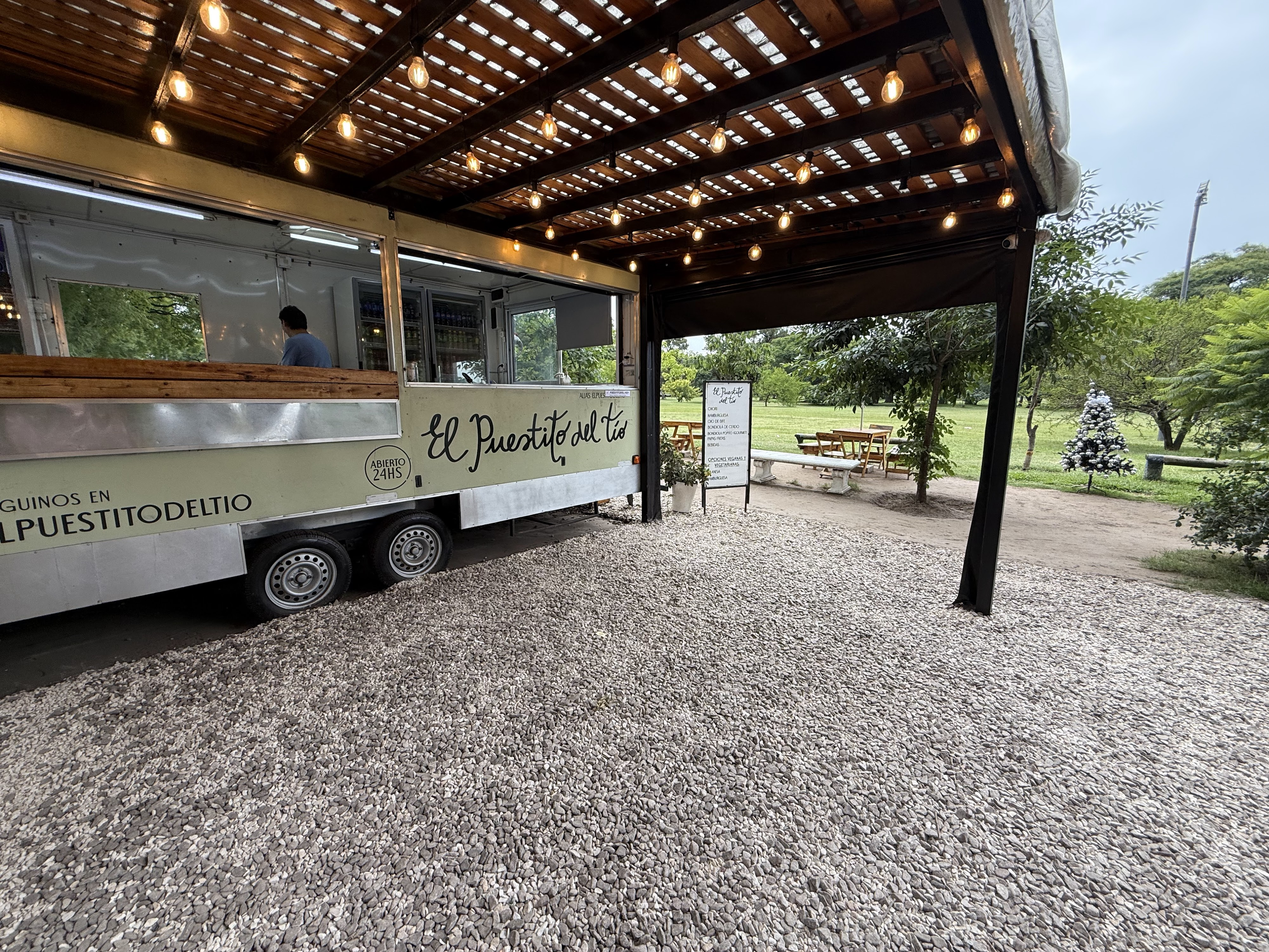
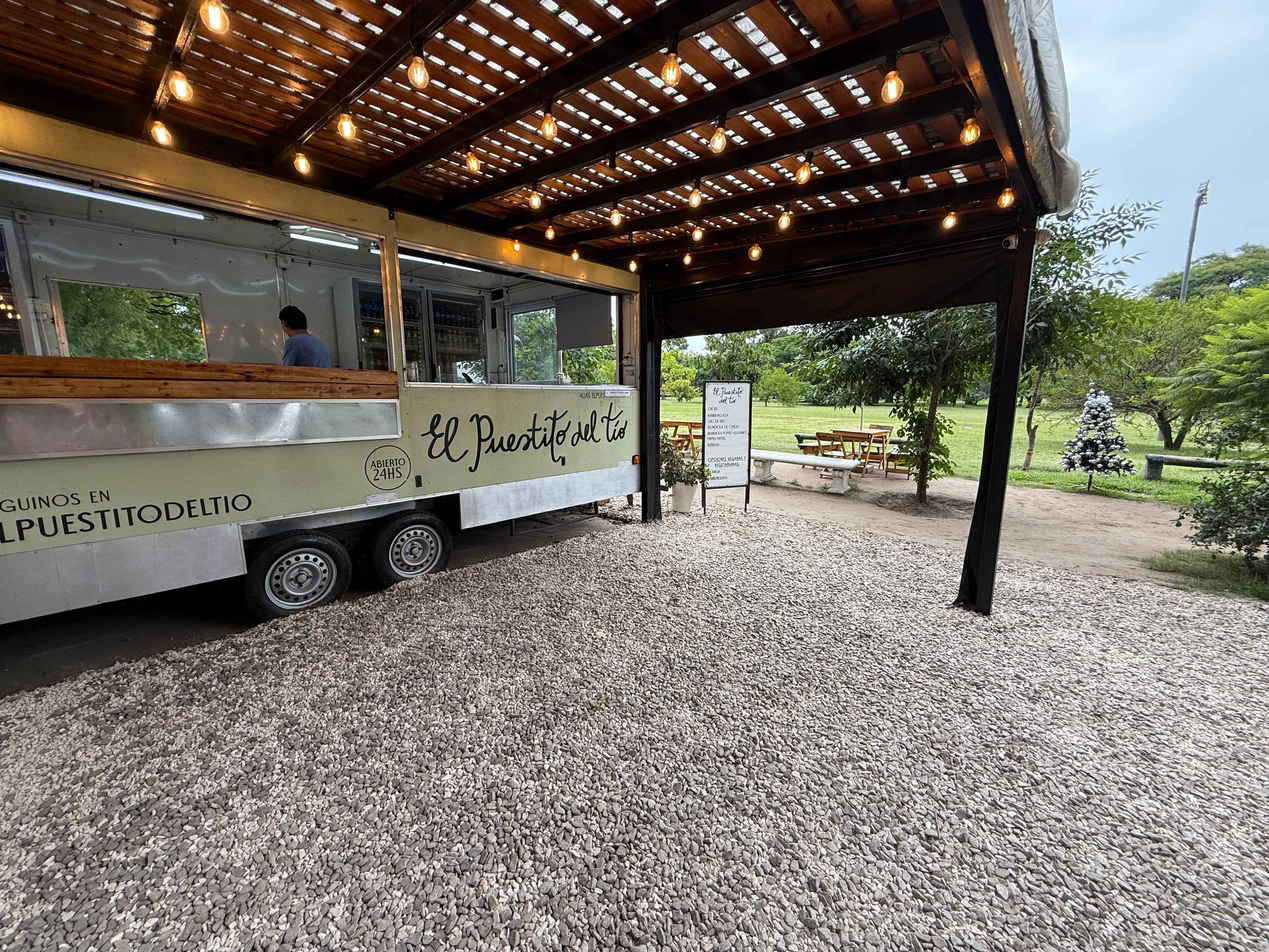
Major update

Changed region(s): [[0.9688, 0.31, 1.0, 0.341], [0.375, 0.248, 0.4062, 0.279]]

diff --git a/src/pages/Storefront.tsx b/src/pages/Storefront.tsx
@@ -20,7 +20,7 @@ import { translations } from '../i18n/translations';
 import { calculateDiscount } from '../types/promotion';
 import { parseMenuLayout } from '../utils/menuLayouts';
 import type { MenuLayoutId } from '../utils/menuLayouts';
-import { resolveAdminPath } from '../utils/adminPath';
+import { BrandLogoMark } from '../components/BrandLogoMark';
 
 export default function Storefront() {
   const { menuItems, menuCategories, siteSettings, promotions } = useMenu();
@@ -151,12 +151,12 @@ export default function Storefront() {
     return opt.label;
   };
 
-  const getLocalizedFeatures = (opt) => {
+  const getLocalizedFeatures = (opt): string[] => {
     if (lang === 'en' && opt.featuresEn) return opt.featuresEn;
     if (lang === 'pt' && opt.featuresPt) return opt.featuresPt;
     if (lang === 'ru' && opt.featuresRu) return opt.featuresRu;
     if (lang === 'de' && opt.featuresDe) return opt.featuresDe;
-    return opt.features;
+    return opt.features ?? [];
   };
 
   const addToCart = (item, option) => {
@@ -232,7 +232,7 @@ export default function Storefront() {
       .filter(item => item.available !== false)
       .map(item => ({
         ...item,
-        options: item.options.filter(opt => opt.available !== false)
+        options: (item.options ?? []).filter(opt => opt.available !== false)
       }))
       .filter(item => item.options.length > 0);
   }, [menuItems]);
@@ -406,6 +406,7 @@ export default function Storefront() {
         </main>
         <GlobalFooter
           brandName={siteSettings.brandName}
+          brandLogo={siteSettings.brandLogo}
           address={siteSettings.brandAddress}
           instagram={siteSettings.brandInstagram}
           googleMaps={siteSettings.brandGoogleMaps}
@@ -446,13 +447,12 @@ export default function Storefront() {
       )}
 
       {/* Header */}
-      <header className={`bg-black text-white p-4 sticky top-0 z-10 shadow-md flex justify-between items-center ${mpSuccess ? 'mt-[88px] sm:mt-[72px]' : ''}`}>
+      <header className={`sticky top-0 z-10 shadow-md flex justify-between items-center p-4 dark:bg-black dark:text-white light:bg-brand-white light:text-text-primary light:border-b light:border-border ${mpSuccess ? 'mt-[88px] sm:mt-[72px]' : ''}`}>
         <div className="flex items-center gap-3">
-          {siteSettings.brandLogo ? (
-            <img src={siteSettings.brandLogo} alt={siteSettings.brandName || 'Logo'} className="h-8 md:h-10 object-contain" />
-          ) : (
-            <h1 className="text-xl md:text-2xl font-black tracking-tight">{siteSettings.brandName || 'Tu Negocio'}</h1>
-          )}
+          <BrandLogoMark
+            src={siteSettings.brandLogo || '/puestito.png'}
+            alt={siteSettings.brandName || 'Logo'}
+          />
           <div className="flex items-center gap-2 mt-0.5">
             {businessHours.enabled ? (
               <span className={`inline-flex items-center gap-1 text-[10px] md:text-xs font-bold px-2 py-0.5 rounded-full ${isOpenNow ? 'bg-green-500/20 text-green-400' : 'bg-red-500/20 text-red-400'}`}>
@@ -461,7 +461,7 @@ export default function Storefront() {
               </span>
             ) : null}
             {siteSettings.brandAddress ? (
-              <span className="text-xs md:text-sm text-gray-300">{siteSettings.brandAddress}</span>
+              <span className="text-xs md:text-sm dark:text-gray-300 light:text-text-secondary">{siteSettings.brandAddress}</span>
             ) : null}
           </div>
         </div>
@@ -575,6 +575,7 @@ export default function Storefront() {
       {/* Footer */}
       <GlobalFooter
         brandName={siteSettings.brandName}
+        brandLogo={siteSettings.brandLogo}
         address={siteSettings.brandAddress}
         instagram={siteSettings.brandInstagram}
         googleMaps={siteSettings.brandGoogleMaps}

diff --git a/src/components/admin/AdminPanel.tsx b/src/components/admin/AdminPanel.tsx
@@ -159,7 +159,7 @@ export function AdminPanel() {
         >
           <aside className="hidden lg:flex flex-col w-64 bg-white/3 border-r border-white/5 p-4">
             <div className="flex items-center gap-3 px-2 py-3 mb-4">
-              <img src={siteSettings.brandLogo || '/titulo-blanco.png'} alt={siteSettings.brandName || 'Trufi'} className="w-32 h-auto object-contain" />
+              <img src={siteSettings.brandLogo || '/puestito.png'} alt={siteSettings.brandName || 'Trufi'} className="w-32 h-auto object-contain" />
             </div>
             <span className="mx-2 mb-4 inline-flex self-start px-2 py-1 rounded-lg bg-white/10 text-[10px] font-black uppercase tracking-wider text-gray-300">
               Plan {planLabel}
@@ -195,7 +195,7 @@ export function AdminPanel() {
                   onClick={(e) => e.stopPropagation()}
                 >
                   <div className="flex items-center justify-between px-2 py-3 mb-4">
-                    <img src={siteSettings.brandLogo || '/titulo-blanco.png'} alt={siteSettings.brandName || 'Trufi'} className="w-28 h-auto object-contain" />
+                    <img src={siteSettings.brandLogo || '/puestito.png'} alt={siteSettings.brandName || 'Trufi'} className="w-28 h-auto object-contain" />
                     <button onClick={() => setMobileMenuOpen(false)} aria-label="Cerrar menú" className="text-gray-400 hover:text-white p-1">
                       <X size={20} />
                     </button>

diff --git a/src/components/GlobalFooter.tsx b/src/components/GlobalFooter.tsx
@@ -39,6 +39,7 @@ import { translations } from '../i18n/translations';
 
 interface GlobalFooterProps {
   brandName?: string;
+  brandLogo?: string;
   address?: string;
   instagram?: string;
   googleMaps?: string;
@@ -51,7 +52,7 @@ interface GlobalFooterProps {
  *
  * @returns {JSX.Element} Elemento que representa el pie de página.
  */
-export function GlobalFooter({ brandName, address, instagram, googleMaps, hoursSummary }: GlobalFooterProps) {
+export function GlobalFooter({ brandName, brandLogo, address, instagram, googleMaps, hoursSummary }: GlobalFooterProps) {
   const { language } = useLanguage();
   const { tenantId } = usePlan();
   const { triggerLogin } = useAdmin();
@@ -132,9 +133,11 @@ export function GlobalFooter({ brandName, address, instagram, googleMaps, hoursS
             role="presentation"
           />
           <div className="flex flex-col items-center md:items-start w-full">
-            <h2 className="text-2xl md:text-3xl font-black text-white tracking-tight md:-mt-2">
-              {displayName}
-            </h2>
+            <img
+              src={brandLogo || '/puestito.png'}
+              alt={displayName}
+              className="w-[280px] md:w-[320px] h-auto object-contain md:-mt-4"
+            />
             <div className="w-full max-w-[200px] h-px bg-brand-white/10 md:hidden mt-4 mx-auto rounded-full" />
           </div>
         </div>

diff --git a/src/components/BrandLogoMark.tsx b/src/components/BrandLogoMark.tsx
@@ -1,0 +1,37 @@
+import { useTheme } from '../context/ThemeContext';
+
+interface BrandLogoMarkProps {
+  src: string;
+  alt: string;
+}
+
+/** Header logo: circle badge (dark) or truck-green curve (light). */
+export function BrandLogoMark({ src, alt }: BrandLogoMarkProps) {
+  const { isDark } = useTheme();
+
+  if (isDark) {
+    return (
+      <div className="h-10 w-10 md:h-11 md:w-11 shrink-0 rounded-full overflow-hidden bg-puestito-green ring-1 ring-white/15 shadow-sm">
+        <img src={src} alt={alt} className="h-full w-full object-cover object-center scale-110" />
+      </div>
+    );
+  }
+
+  return (
+    <div className="relative h-10 md:h-11 shrink-0 min-w-[4.5rem] md:min-w-[5rem]">
+      <svg
+        aria-hidden
+        viewBox="0 0 96 48"
+        className="absolute -left-2 -bottom-1.5 w-[5.5rem] md:w-24 h-auto pointer-events-none"
+        preserveAspectRatio="none"
+      >
+        <path d="M0,48 Q48,6 96,20 L96,48 Z" className="fill-puestito-green" />
+      </svg>
+      <img
+        src={src}
+        alt={alt}
+        className="relative h-full w-auto max-w-[5.5rem] md:max-w-[6rem] object-contain object-left pl-0.5"
+      />
+    </div>
+  );
+}

diff --git a/src/components/ThemeToggle.tsx b/src/components/ThemeToggle.tsx
@@ -8,7 +8,7 @@ export function ThemeToggle() {
     <button
       type="button"
       onClick={() => setTheme(isDark ? 'light' : 'dark')}
-      className="p-2 bg-gray-800 rounded-full hover:bg-gray-700 transition text-gray-300 hover:text-white"
+      className="p-2 rounded-full transition dark:bg-gray-800 dark:hover:bg-gray-700 dark:text-gray-300 dark:hover:text-white light:bg-surface-muted light:hover:bg-border light:text-text-secondary light:hover:text-text-primary"
       aria-label={isDark ? 'Modo claro' : 'Modo oscuro'}
       title={isDark ? 'Modo claro' : 'Modo oscuro'}
     >

diff --git a/src/components/MenuList.tsx b/src/components/MenuList.tsx
@@ -27,7 +27,7 @@ export function MenuList() {
   return (
     <div className="relative z-20 px-0 lg:px-4 flex flex-col items-center bg-brand-green w-full">
       <img
-        src={siteSettings.brandLogo || '/titulo-blanco.png'}
+        src={siteSettings.brandLogo || '/puestito.png'}
         alt={siteSettings.brandName || 'Título'}
         className="w-full md:w-[1200px] relative z-30 h-auto mx-auto mb-3 -mt-32 md:-mt-48 lg:-mt-64 px-4 object-contain"
       />

diff --git a/src/components/LanguageSelector.tsx b/src/components/LanguageSelector.tsx
@@ -39,8 +39,8 @@ export function LanguageSelector() {
         className="bg-brand-green w-full max-w-2xl rounded-xl md:rounded-2xl p-8 md:p-12 shadow-[0_30px_60px_rgba(0,0,0,0.8)] flex flex-col items-center"
       >
         <img 
-          src="/titulo-blanco.png" 
-          alt="Trufi" 
+          src="/puestito.png" 
+          alt="El Puestito del Tío" 
           className="w-72 md:w-96 lg:w-[450px] h-auto object-contain mb-4 md:mb-6"
         />
 

diff --git a/index.html b/index.html
@@ -12,8 +12,8 @@
     <meta property="og:description" content="Carta digital, pedidos y WhatsApp para tu local." />
 
     <link rel="manifest" href="/manifest.json" />
+    <link rel="icon" type="image/svg+xml" href="/favicon.svg" />
     <link rel="apple-touch-icon" href="/favicon.jpg" />
-    <link rel="icon" type="image/jpeg" href="/favicon.jpg" />
     <title>Trufi — Menú online</title>
   </head>
   <body>

diff --git a/src/components/admin/LoginModal.tsx b/src/components/admin/LoginModal.tsx
@@ -135,7 +135,7 @@ export function LoginModal() {
                 <X size={18} />
               </button>
               <img
-                src="/titulo-blanco.png"
+                src="/puestito.png"
                 alt="Trufi Admin"
                 className="w-48 h-auto object-contain"
               />

diff --git a/src/index.css b/src/index.css
@@ -4,6 +4,7 @@
 
 @theme {
   --color-brand-green: #cc333f;
+  --color-puestito-green: #86967e;
   --color-brand-black: #0d0d0d;
   --color-brand-white: #fdf6e3;
   --color-brand-gray: #6b7280;

diff --git a/docs/roadmap/premium-cx-desk.md b/docs/roadmap/premium-cx-desk.md
@@ -1,10 +1,98 @@
 # Premium CX desk
 
-Purpose: shopkeeper supervises AI customer chats — Premium tier beyond storefront bubble.
+Purpose: shopkeeper supervises AI customer chats - Premium tier beyond storefront bubble.
 
 Paths (today): `src/components/AIAssistant.tsx`, `api/ai-chat.ts`
 
 Deps (future): Firestore chat sessions, admin desk UI, knowledge store, OpenAI or equivalent
+
+## ROI read for CABA / Zona Norte pymes
+
+Best near-term offer: **Premium CX Lite**, not a full CX desk.
+
+Target buyer: rotiseria, empanadas, burger/chori, food truck, cafe chico, pet shop, dietetica, fiambreria or specialty retail where the owner answers WhatsApp personally and loses time on repeated questions.
+
+Best-fit geography: CABA and Zona Norte shops close enough for setup/support visits: Palermo, Belgrano, Nunez, Colegiales, Vicente Lopez, Olivos, Martinez, San Isidro.
+
+### What to sell now
+
+Position it as:
+
+> "Te armamos carta/pedidos online + respuestas rapidas para WhatsApp + asistente para preguntas comunes. Sin comision por pedido. Vos mantenes control."
+
+Package:
+
+- Existing storefront with cart, checkout, order status and WhatsApp handoff.
+- Existing admin order inbox with sound, 58mm ticket and quick replies.
+- Premium assistant for menu Q&A and suggestions on the storefront.
+- Admin-configured WhatsApp templates for recurring replies.
+- Manual "known answers" setup during onboarding: delivery zones, hours, payment methods, promos, allergens, top combos.
+- Weekly improvement pass during first month based on real customer questions.
+
+Do **not** lead with "AI customer service desk". For local pymes that sounds risky and expensive. Lead with fewer messy WhatsApp chats, fewer repeated questions, cleaner orders and no marketplace commission.
+
+### Why this is probably best ROI
+
+High value:
+
+- Owners already feel WhatsApp pain.
+- Orders and customer questions are concrete daily problems.
+- "No commission" is easy to compare against marketplaces and PedidoDirecto-like tools.
+- In-person setup in CABA/Zona Norte is a trust advantage.
+
+Low build cost:
+
+- Reuses current Pedidos features.
+- Reuses Premium storefront chat.
+- Reuses `wa.me` instead of WhatsApp Business API.
+- Requires mostly onboarding content, templates and small admin polish.
+
+Fast sales proof:
+
+- Can be piloted with 2 shops in 1-2 weeks.
+- Success metric is observable: order volume, owner admin usage, fewer malformed WhatsApp orders, repeat questions handled.
+
+### Recommended pricing test
+
+Use simple pricing until there are 5+ paying shops:
+
+| Offer | Setup | Monthly | Notes |
+|---|---:|---:|---|
+| Pedidos | $0 pilot / setup included | ARS 15k-18k | Current baseline |
+| Premium CX Lite | ARS 20k-40k optional | ARS 25k-35k | Best ROI test |
+| Full CX Desk | Custom | ARS 60k+ | Only after demand is proven |
+
+Discount rule: waive setup for first 2 pilots if they allow a case study and introduce one neighbor.
+
+### What not to build yet
+
+- Real-time multi-chat admin inbox.
+- Human takeover inside the website chat.
+- WhatsApp Business API ingestion.
+- RAG knowledge base UI.
+- SLA timers, agent routing, CRM exports.
+
+Those are credible later, but too much surface area before proving that pymes will pay more than Pedidos for CX help.
+
+### MVP increments for Premium CX Lite
+
+1. **CX onboarding worksheet**: one Markdown/checklist per tenant with hours, zones, FAQs, payment rules, top combos and "ask human" cases.
+2. **Admin quick replies polish**: make order templates feel like a feature, not a utility.
+3. **Assistant prompt hardening**: tenant FAQ/context injected into `/api/ai-chat` from config or Firestore.
+4. **Escalation copy**: when unsure, assistant says it will send the customer to WhatsApp with the order/question prefilled.
+5. **Metrics note**: track repeated questions and malformed orders during pilot.
+
+### Pilot script
+
+For the next 2 pilots, sell this as an upgrade option:
+
+1. Start them on Pedidos.
+2. During week 1, collect repeated WhatsApp questions and menu confusion.
+3. Turn those into Premium CX Lite content/templates.
+4. In week 2, show before/after: fewer corrections, faster replies, better order text.
+5. Ask whether they would pay ARS 25k-35k/month to keep it.
+
+Decision gate: build the full CX desk only after at least 3 shops say they want to monitor AI chats inside admin and would pay a clear premium for it.
 
 ## Today
 
@@ -17,7 +105,7 @@ Deps (future): Firestore chat sessions, admin desk UI, knowledge store, OpenAI o
 ### Shopkeeper UI
 
 - **~10 concurrent chat windows** (customer sessions) in admin
-- Real-time view of customer ↔ agent messages
+- Real-time view of customer <-> agent messages
 - Session list: active, waiting human, closed
 - Takeover button: human types; customer sees reply in storefront chat
 
@@ -54,7 +142,7 @@ flowchart LR
 
 ## Data shape (sketch)
 
-```
+```text
 tenants/{id}/chatSessions/{sessionId}
   messages[], status, customerPhone, orderId?, needsHuman
 tenants/{id}/cxKnowledge/{entryId}

diff --git a/kimi.md b/kimi.md
@@ -1,0 +1,40 @@
+# kimi.md
+
+This file contains instructions to ensure Kimi Code remains accurate, stays in scope, and retains project context across sessions.
+
+## 1. The Core Reliability Rules
+* **Ask, don't assume:** If something is unclear, ask before writing a single line. Never make silent assumptions about intent, architecture, or requirements.
+* **Simplest solution first:** Always implement the simplest thing that could work. Do not add abstractions or flexibility that weren't explicitly requested.
+* **Don't touch unrelated code:** If a file or function is not directly part of the current task, do not modify it, even if you think it could be improved.
+* **Flag uncertainty explicitly:** If you are not confident about an approach or technical detail, say so before proceeding.
+
+## 2. Communication Preferences
+* **No Preamble:** Never open responses with filler phrases like "Great question!" or "Certainly!". Start every response with the actual answer.
+* **Match Length to Task:** Keep responses as concise or detailed as the task requires. No padding.
+* **Show Options:** Before significant tasks, present 2-3 approaches and wait for confirmation.
+* **Voice:** laconic
+
+## 3. Behavioral Guardrails
+* **Confirm Before Big Changes:** Stop and ask for confirmation before restructuring code, changing tone, or rewriting large sections.
+* **Destructive Actions:** Explicitly ask for confirmation before deleting files, overwriting code, or dropping database records.
+* **Hard Stops:** Deploying, pushing, running migrations, or executing external API calls requires explicit in-session confirmation ("yes") in the current message.
+* **Transparency:** After every coding task, output:
+    * **Files changed:** (list)
+    * **What was modified:** (one line per file)
+    * **Files intentionally not touched:**
+    * **Follow-up needed:**
+
+## 4. Memory & Tech Stack
+* **Maintain MEMORY.md:** Log major decisions (What/Why/Rejected). Read this at the start of every session.
+* **Maintain ERRORS.md:** Log approaches that took >2 attempts to work. Check this before suggesting solutions.
+* **Session Summaries:** When I say "session end," summarize: Work done, decisions made, and next priorities.
+* **Lock Tech Stack:** * Language: JS
+    * Framework: React
+    * Package Manager: Yarn
+    * Database/Other: Firebase
+    * *Do not suggest alternatives unless explicitly asked.*
+
+## 5. Context
+* **Role/Background:** name is gatrivi. MERN developer interested in meditation, writing, church, gurdjieff, vipassana
+* **Project Goals:** [Specific project objective]
+* **Constraints:** [List specific things to avoid or non-negotiable rules]
